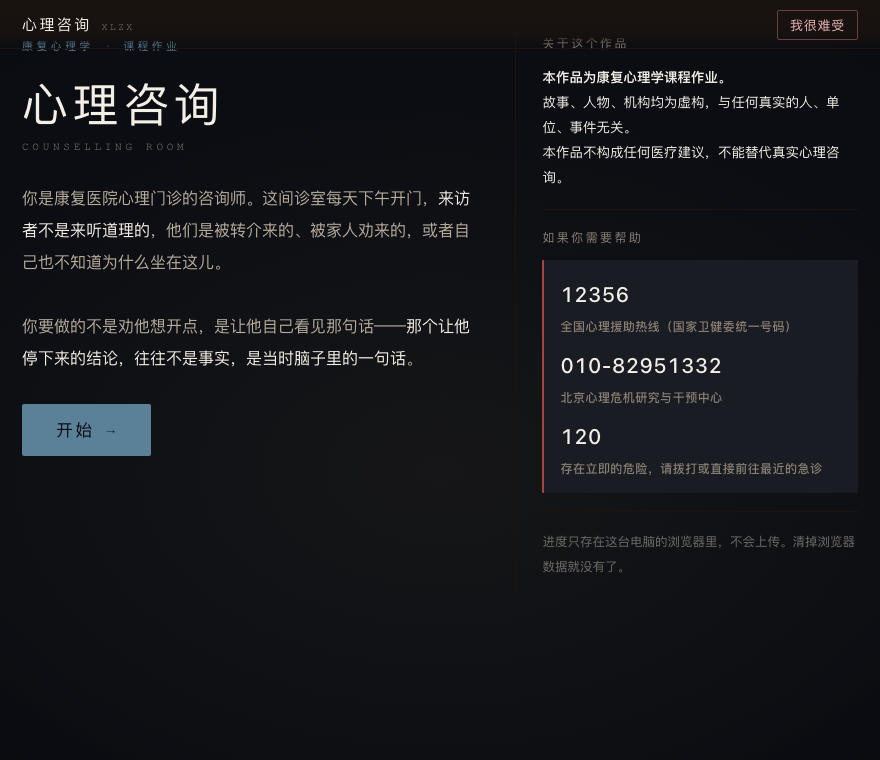
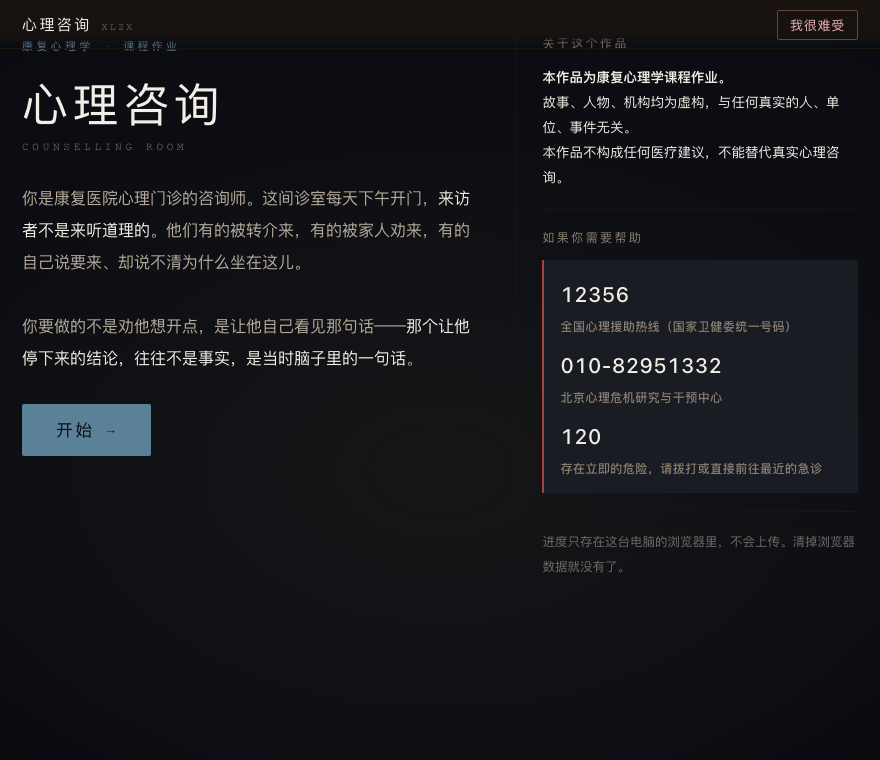
test(v2-D11~D12): 跨环境自查 + 标题页文案与 Safari 前缀
- Safari 27：file:// 打开正常（标题页 title 已核），JS 关闭时退回静态标题页，不白屏；
  这台机器没有屏幕录制权限，无法自动截 Safari 的图，像素级验收仍需人工看一眼
- WebKit（qlmanage）渲染实测：HTML 结构正常，但 QuickLook 不跑 JS，只能看到空壳——
  说明必须用浏览器打开，
- Windows Chrome/Edge 这台机器上无法验证，留作交付前在目标机器上双击一次
- Safari 18 之前 backdrop-filter 需要 -webkit- 前缀，补上（不带也不会白屏）
- 标题页文案补上「有的自己说要来、却说不清为什么」，和许予安这条线的起点对上

验收：node tests/run-all.mjs 六步全绿

Changed region(s): [[0.0307, 0.2724, 0.5216, 0.3632]]

diff --git a/心理咨询.html b/心理咨询.html
@@ -392,6 +392,7 @@ body::before {
   justify-content: center;
   padding: 28px 20px;
   background: rgba(6, 7, 10, .84);
+  -webkit-backdrop-filter: blur(2px); /* Safari 18 之前只认带前缀的写法 */
   backdrop-filter: blur(2px);
 }
 #overlay.on { display: flex; }
@@ -3972,8 +3973,8 @@ XLZX.storySlots = [
     left.appendChild(make('div', { class: 'sub', text: 'counselling room' }));
     left.appendChild(make('p', {
       class: 'pitch',
-      html: '你是康复医院心理门诊的咨询师。这间诊室每天下午开门，<em>来访者不是来听道理的</em>，' +
-        '他们是被转介来的、被家人劝来的，或者自己也不知道为什么坐在这儿。<br><br>' +
+      html: '你是康复医院心理门诊的咨询师。这间诊室每天下午开门，<em>来访者不是来听道理的</em>。' +
+        '他们有的被转介来，有的被家人劝来，有的自己说要来、却说不清为什么坐在这儿。<br><br>' +
         '你要做的不是劝他想开点，是让他自己看见那句话——<em>那个让他停下来的结论，' +
         '往往不是事实，是当时脑子里的一句话</em>。',
     }));

diff --git a/src/ui.js b/src/ui.js
@@ -350,8 +350,8 @@
     left.appendChild(make('div', { class: 'sub', text: 'counselling room' }));
     left.appendChild(make('p', {
       class: 'pitch',
-      html: '你是康复医院心理门诊的咨询师。这间诊室每天下午开门，<em>来访者不是来听道理的</em>，' +
-        '他们是被转介来的、被家人劝来的，或者自己也不知道为什么坐在这儿。<br><br>' +
+      html: '你是康复医院心理门诊的咨询师。这间诊室每天下午开门，<em>来访者不是来听道理的</em>。' +
+        '他们有的被转介来，有的被家人劝来，有的自己说要来、却说不清为什么坐在这儿。<br><br>' +
         '你要做的不是劝他想开点，是让他自己看见那句话——<em>那个让他停下来的结论，' +
         '往往不是事实，是当时脑子里的一句话</em>。',
     }));

diff --git a/src/styles.css b/src/styles.css
@@ -383,6 +383,7 @@ body::before {
   justify-content: center;
   padding: 28px 20px;
   background: rgba(6, 7, 10, .84);
+  -webkit-backdrop-filter: blur(2px); /* Safari 18 之前只认带前缀的写法 */
   backdrop-filter: blur(2px);
 }
 #overlay.on { display: flex; }
